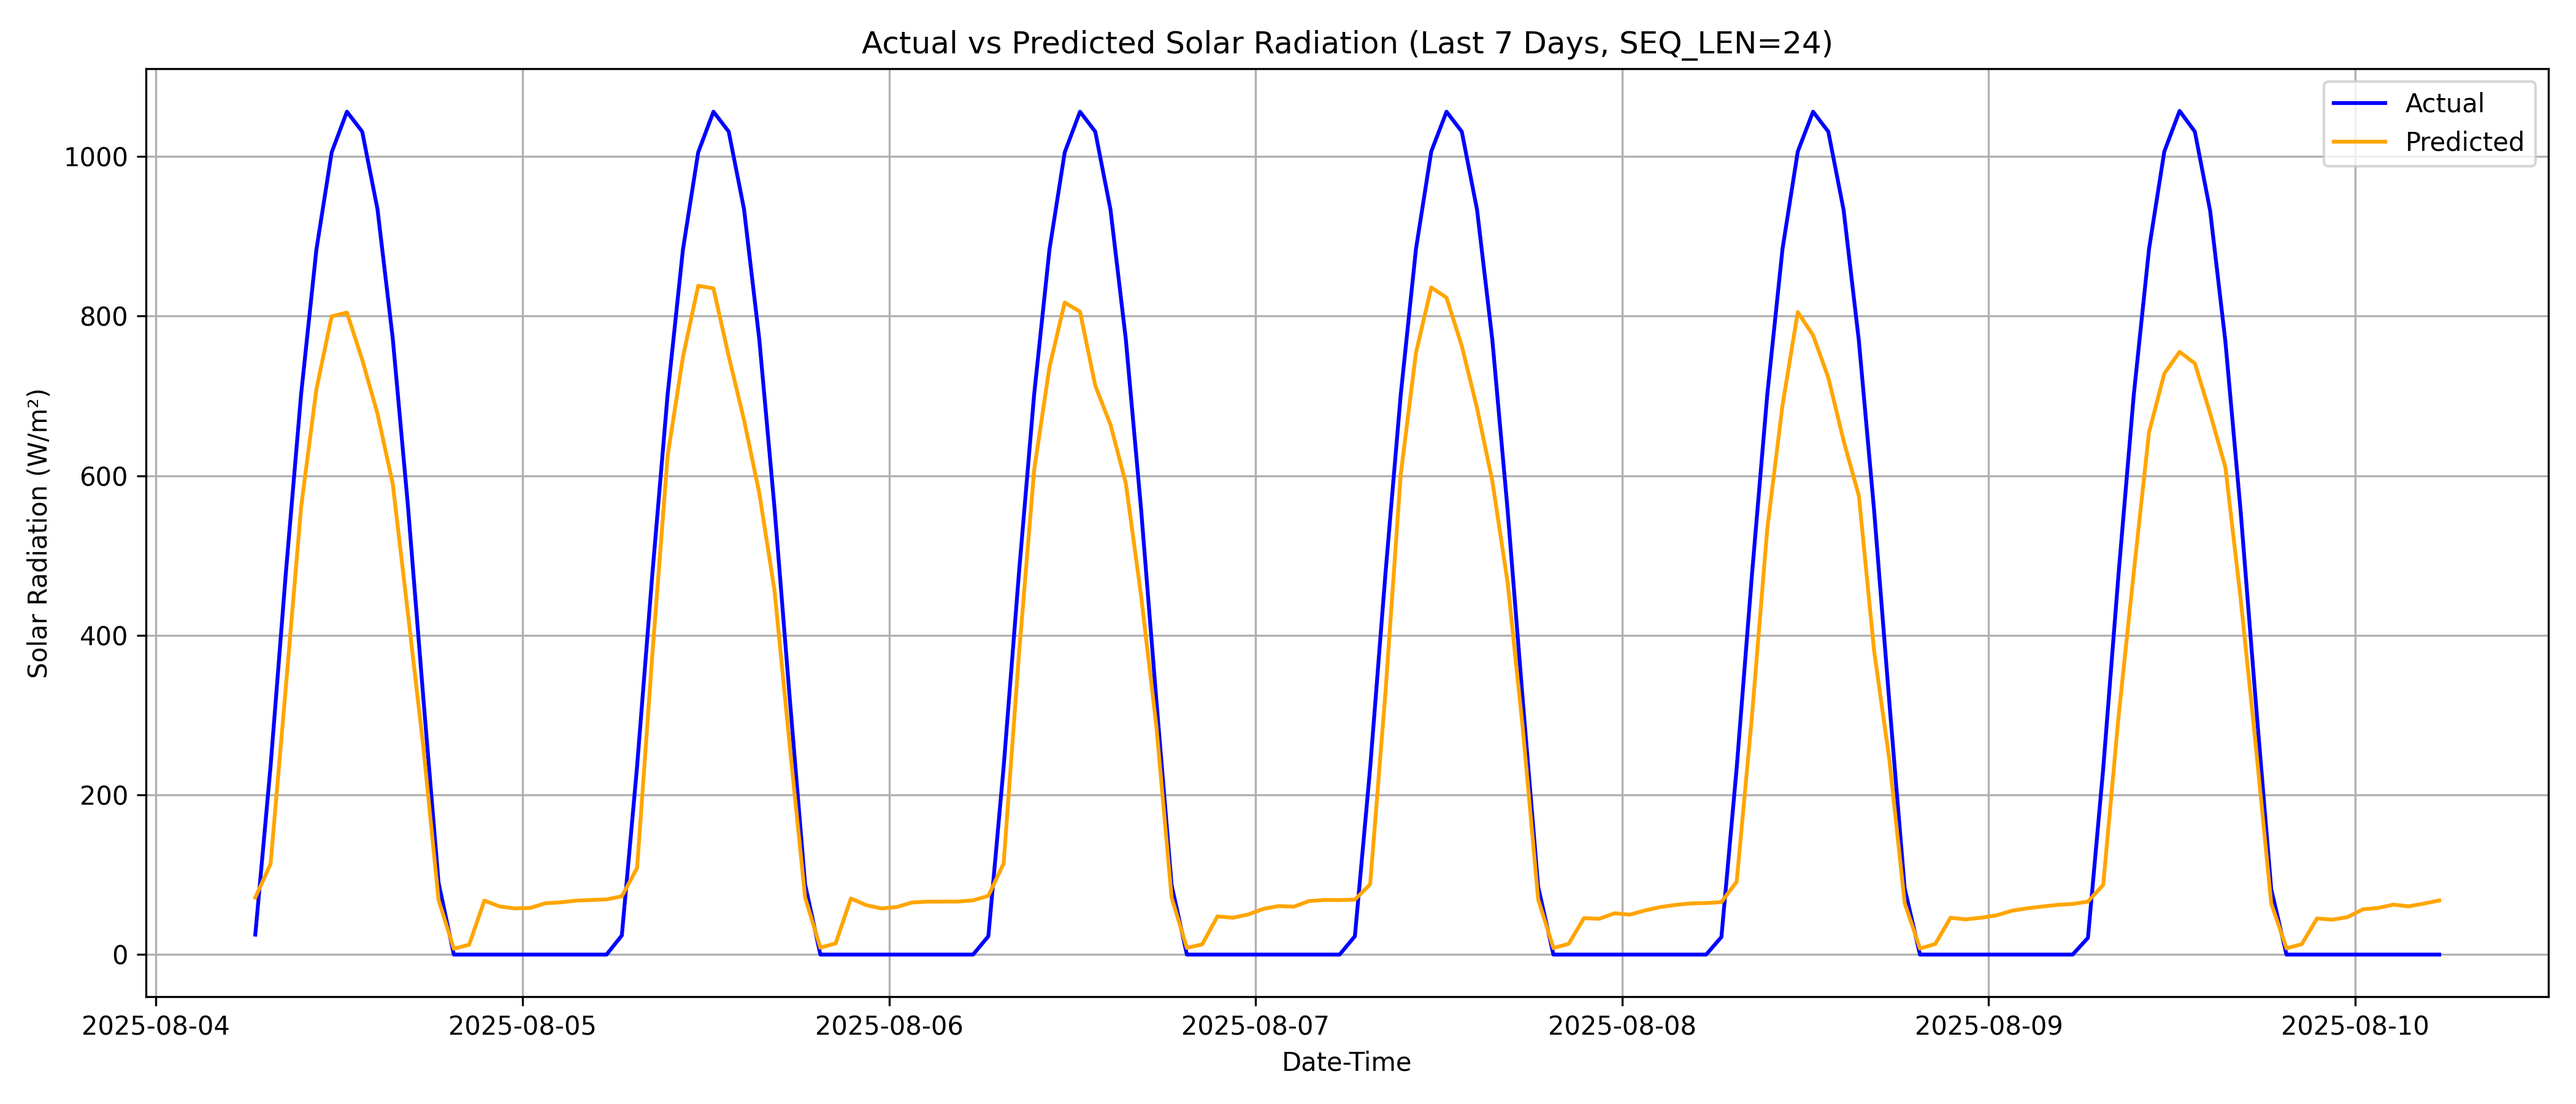
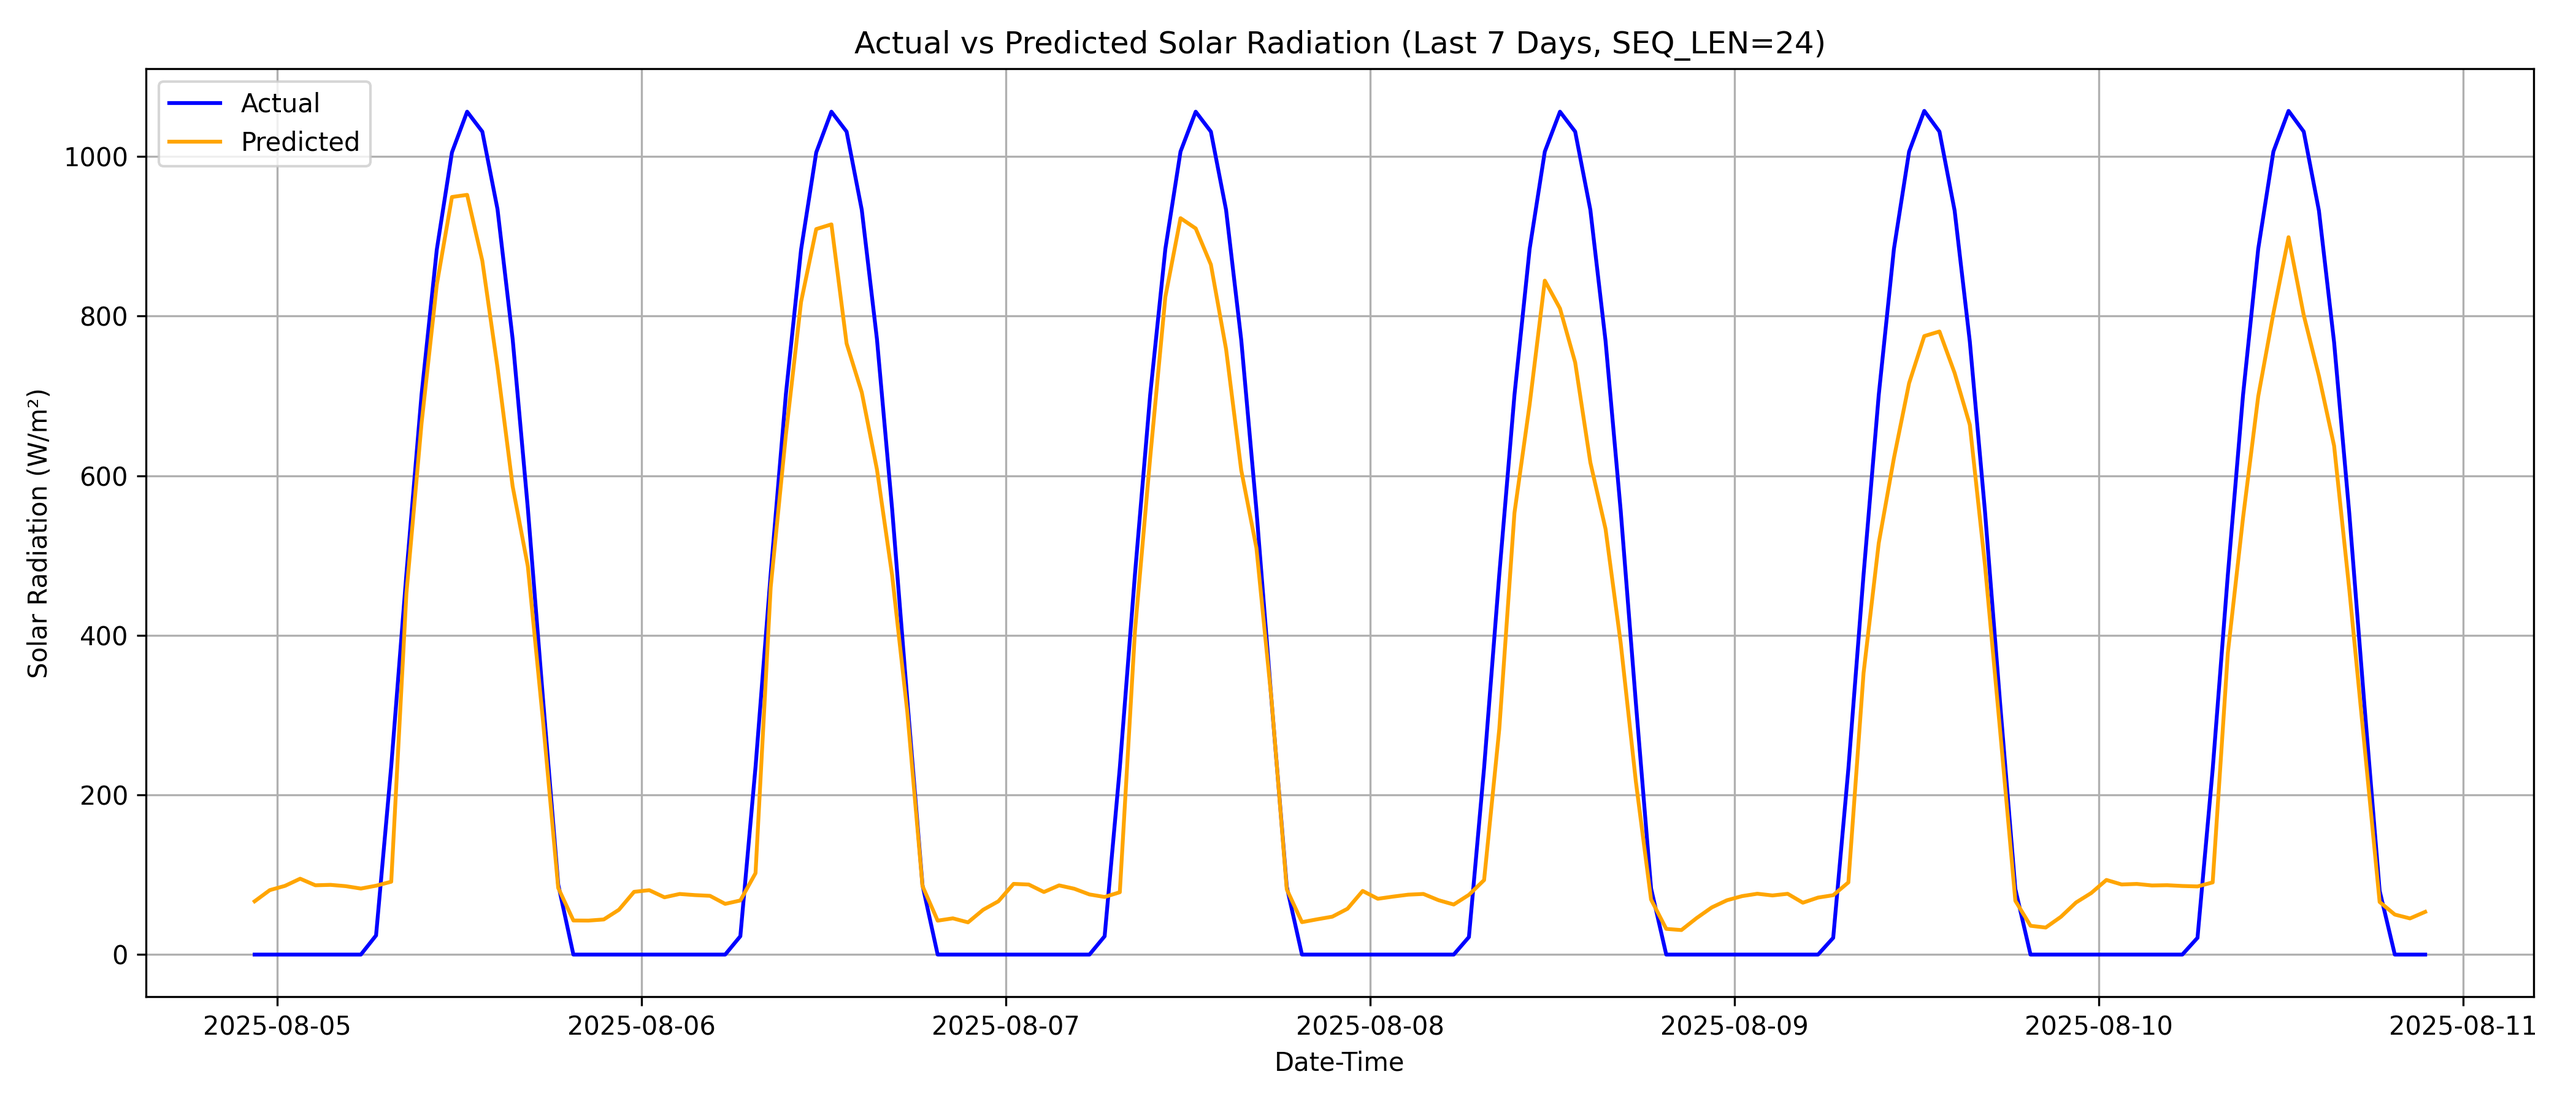
finded the best model and comminted the changes

diff --git a/training_codes/training_6.py b/training_codes/training_6.py
@@ -22,7 +22,7 @@ Q_VAL = 0.95
 
 DATA_PATH = "dataset/final.csv"
 TEST_PATH = "dataset/final.csv"
-MODEL_SAVE_PATH = f"models/spike_aware_q{int(Q_VAL*100)}_seq{SEQ_LEN}.pth"
+MODEL_SAVE_PATH = f"models/spike_aware_q{int(Q_VAL*100)}_seq{SEQ_LEN}.pth40"
 SCALER_SAVE_PATH = f"scalers/feature_scaler_seq{SEQ_LEN}.pkl"
 print(MODEL_SAVE_PATH)
 print(SCALER_SAVE_PATH)
@@ -168,7 +168,7 @@ def evaluate_and_plot():
     df_test["ALLSKY_SFC_SW_DWN"] = np.log1p(df_test["ALLSKY_SFC_SW_DWN"])
 
     predicted = []
-    for i in range(26,1000):
+    for i in range(25,130):
         input_df = df_test.iloc[i - SEQ_LEN:i]
         input_features = input_df[FEATURES]
         input_scaled = scaler.transform(input_features)
@@ -182,7 +182,7 @@ def evaluate_and_plot():
 
     actual_aligned = actual[SEQ_LEN + 1 : SEQ_LEN + 1 + len(predicted)]
 
-    plt.figure(figsize=(86, 6))
+    plt.figure(figsize=(12, 6))
     plt.plot(actual_aligned, label="Actual Solar Radiation")
     plt.plot(predicted, label="Predicted Solar Radiation")
     plt.xlabel("Time Step")

diff --git a/final_testing.py b/final_testing.py
@@ -16,7 +16,7 @@ from models_code.model_5 import SpikeAwareHybrid
 from final.final_fetch import fetch_weatherbit_data
 
 # ==== CONFIG ====
-MODEL_PATH = "models/spike_aware_q95_seq24.pth"
+MODEL_PATH = "models/spike_aware_q95_seq24.pth40"
 SCALER_PATH = "scalers/feature_scaler_seq24.pkl"
 SEQ_LEN = 24
 API_KEY = "777628119ce049d484833355dbeca175"
@@ -59,7 +59,7 @@ if __name__ == "__main__":
     lon = float(input("Enter longitude: "))
 
     print("📡 Fetching last 7 days weather data...")
-    end_time = datetime.now(tz=timezone.utc) - timedelta(hours=7)
+    end_time = datetime.now(tz=timezone.utc) 
     start_time = end_time - timedelta(days=7)
 
     # We modify fetch to handle date range (manually inlined)

diff --git a/main.py b/main.py
@@ -15,7 +15,7 @@ from models_code.model_5 import SpikeAwareHybrid
 from final.final_fetch import compute_additional_features, add_time_features
 
 # ==== CONFIG ====
-MODEL_PATH = "models/spike_aware_q95_seq24.pth"
+MODEL_PATH = "models/spike_aware_q95_seq24.pth40"
 SCALER_PATH = "scalers/feature_scaler_seq24.pkl"
 SEQ_LEN = 24
 API_KEY = "777628119ce049d484833355dbeca175"

diff --git a/readme.md b/readme.md
@@ -22,7 +22,7 @@ This project builds a deep learning model to forecast hourly solar energy output
 ---
 ## 📷 Images
 * Actual Vs Predicted
-  <img title="a title" alt="Alt text" src="images\WhatsApp Image 2025-08-09 at 21.12.36_66499ea0.jpg">
+  <img title="a title" alt="Alt text" src="models\test_eval_seq24.png">
 * Average Hourly Solar Prediction
   <img title="a title" alt="Alt text" src="images\average_hourly_solar_energy_data.png">
 * On Live data never seem before
